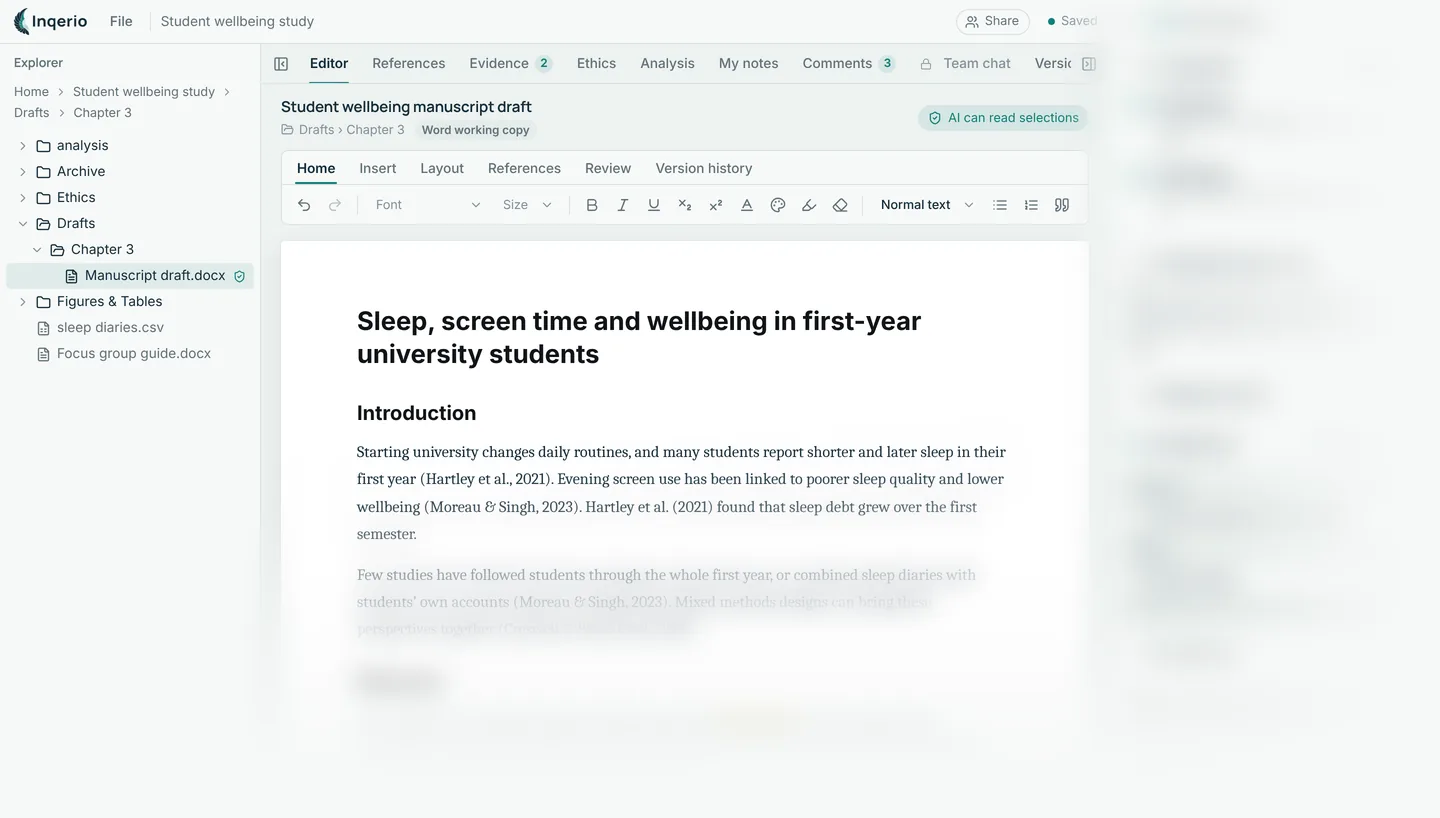
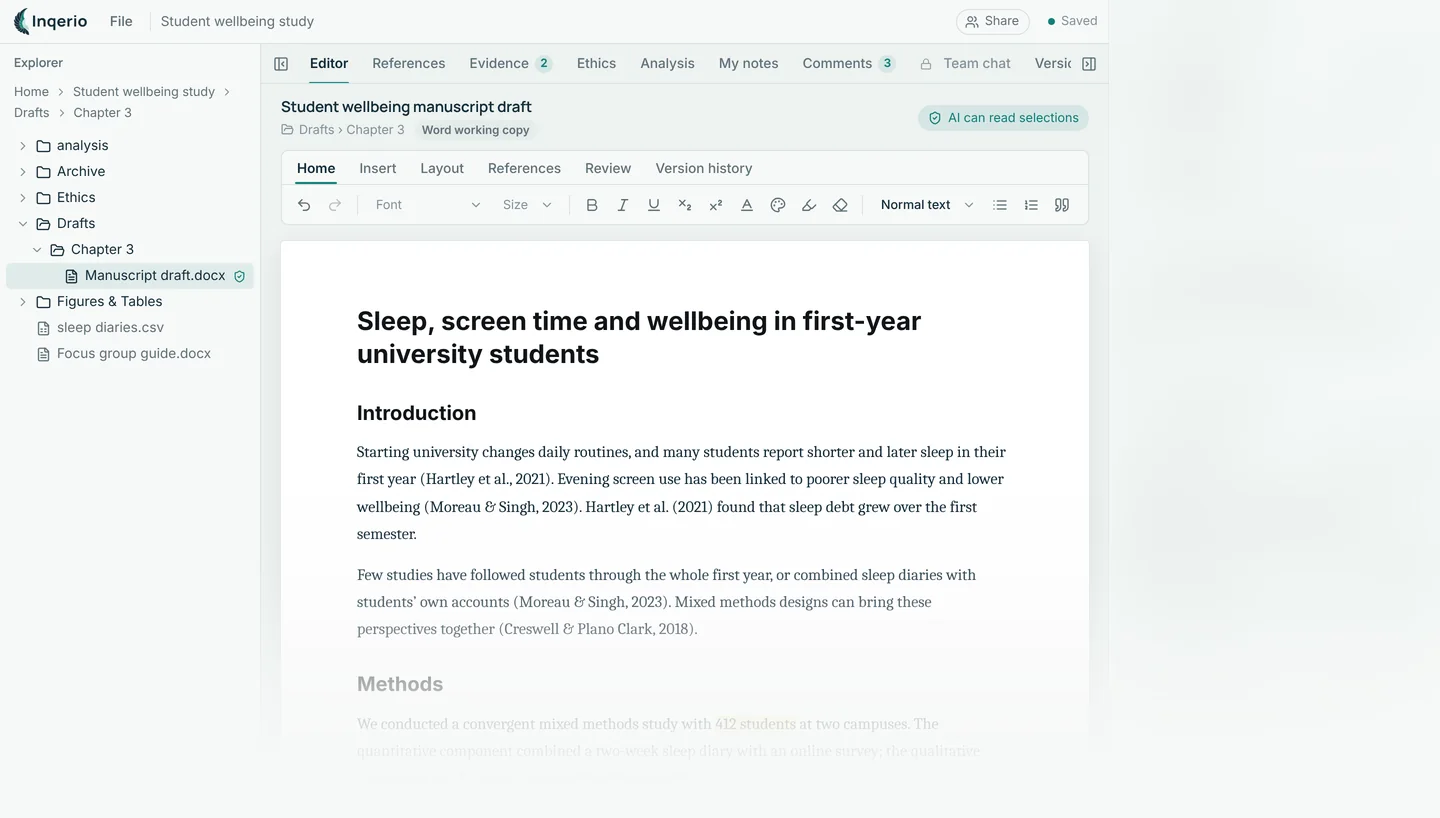
Frosted-glass screenshot

diff --git a/index.html b/index.html
@@ -59,9 +59,8 @@
     <figure class="shot">
       <picture>
         <source media="(max-width: 720px)" srcset="./assets/media/app-view-mobile.webp" width="900" height="771">
-        <img src="./assets/media/app-view-1440.webp" srcset="./assets/media/app-view-1440.webp 1440w, ./assets/media/app-view-2400.webp 2400w" sizes="(max-width: 1188px) 100vw, 1140px" width="1440" height="818" alt="The Inqerio editor with a project's files and a manuscript open; the rest of the window fades out." loading="eager">
+        <img src="./assets/media/app-view-1440.webp" srcset="./assets/media/app-view-1440.webp 1440w, ./assets/media/app-view-2400.webp 2400w" sizes="(max-width: 1188px) 100vw, 1140px" width="1440" height="818" alt="The Inqerio editor with a project's files and a manuscript open; the side panels are behind frosted glass." loading="eager">
       </picture>
-      <figcaption>Writing in Inqerio. The study shown is a made-up example.</figcaption>
     </figure>
     <p class="works">Works with R, Python, Stata, SAS and SPSS, with Microsoft Word, and with PubMed, Europe PMC, OpenAlex and Crossref.</p>
   </div>
